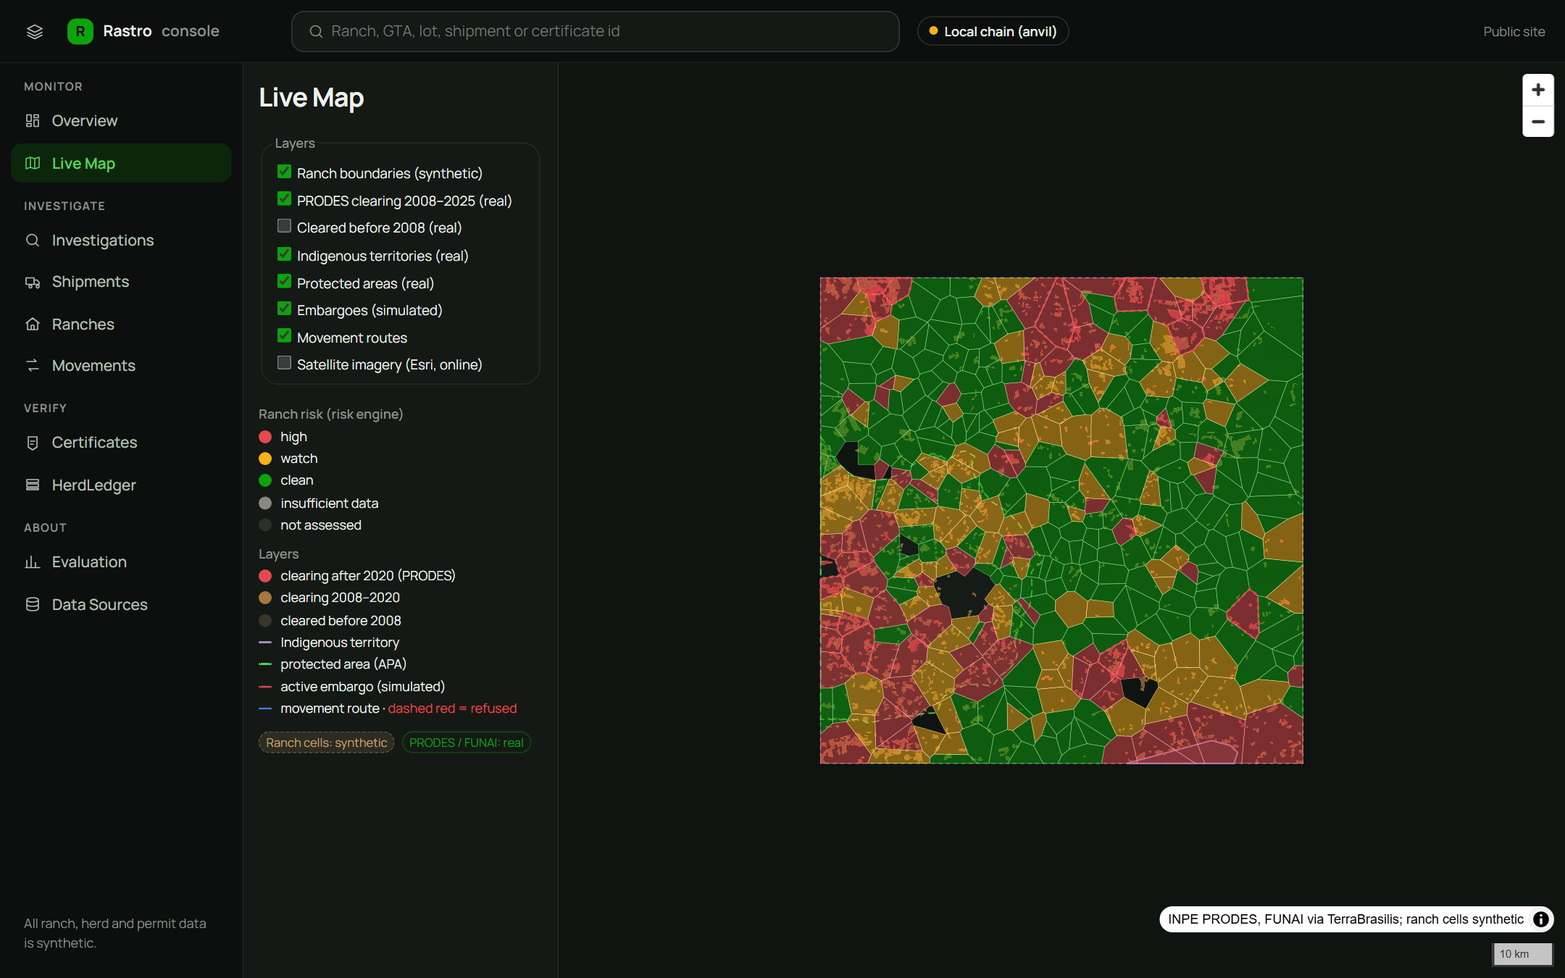
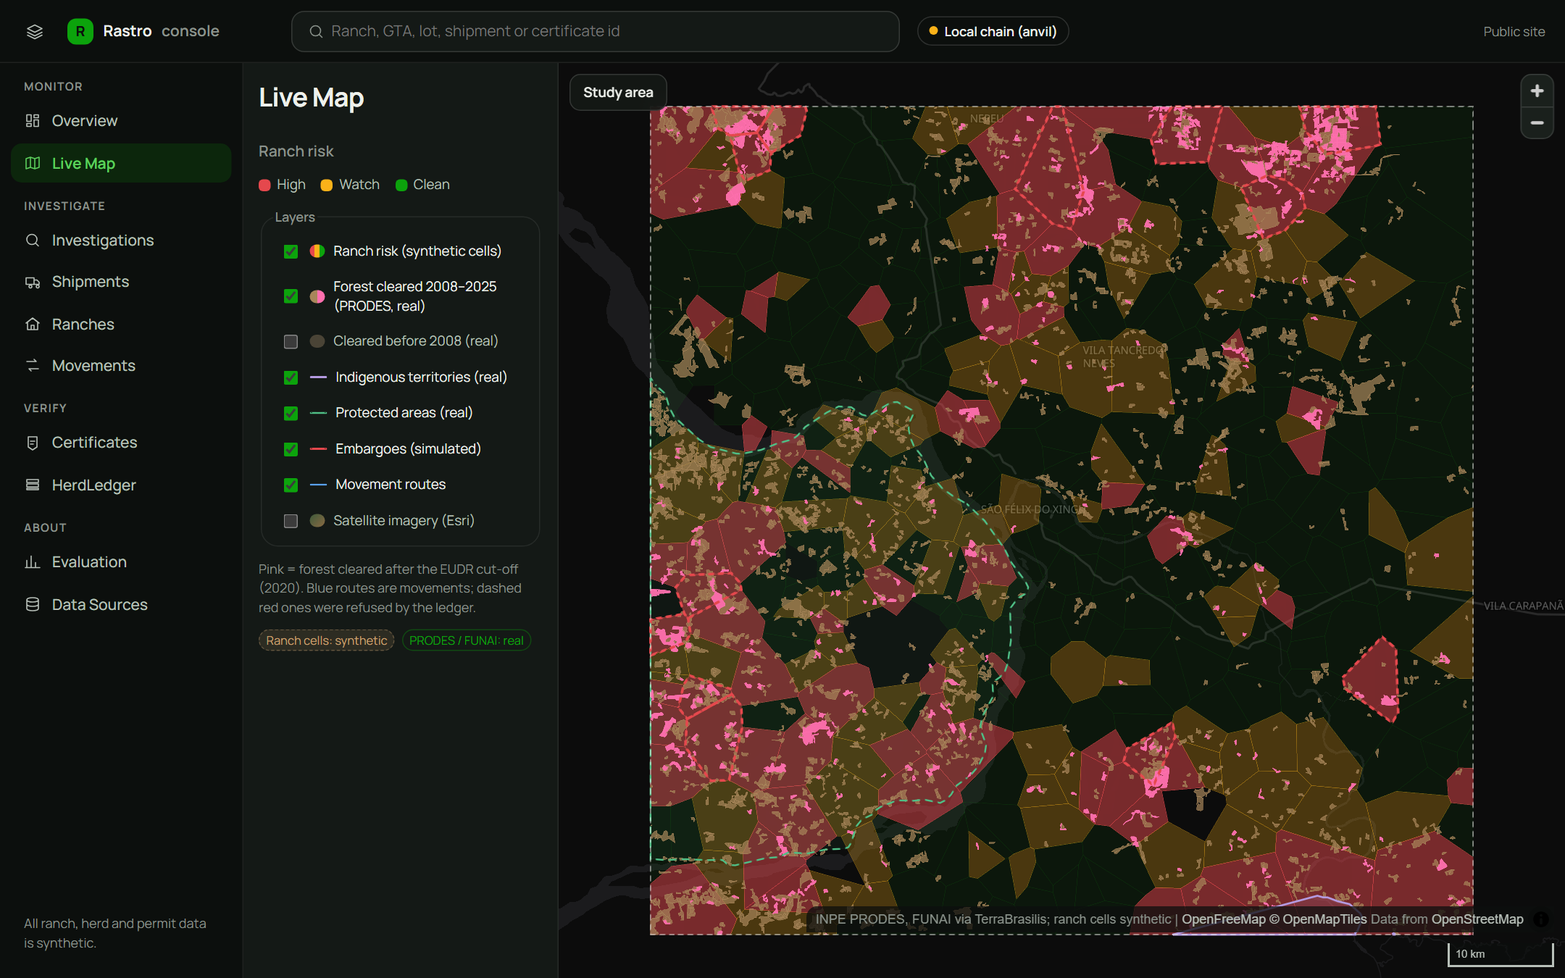
Console map: dark basemap, fit to study area, clearer risk layers

diff --git a/web/src/console/map/MapCanvas.tsx b/web/src/console/map/MapCanvas.tsx
@@ -6,8 +6,8 @@ import { bboxOf, centroid, loadLayer } from './geo';
 
 export type LayerKey = 'ranches' | 'deforestation' | 'cleared2008' | 'indigenous' | 'conservation' | 'embargo' | 'routes';
 export const LAYER_LABELS: Record<LayerKey, string> = {
-  ranches: 'Ranch boundaries (synthetic)',
-  deforestation: 'PRODES clearing 2008–2025 (real)',
+  ranches: 'Ranch risk (synthetic cells)',
+  deforestation: 'Forest cleared 2008–2025 (PRODES, real)',
   cleared2008: 'Cleared before 2008 (real)',
   indigenous: 'Indigenous territories (real)',
   conservation: 'Protected areas (real)',
@@ -15,7 +15,7 @@ export const LAYER_LABELS: Record<LayerKey, string> = {
   routes: 'Movement routes',
 };
 
-// Muted earth tones; red only for blocking risk.
+// Status colours (red only for blocking risk); the same values as the landing page.
 export const RISK_COLOR: Record<string, string> = {
   high: '#e5484d',
   watch: '#fab219',
@@ -23,16 +23,22 @@ export const RISK_COLOR: Record<string, string> = {
   insufficient_data: '#898781',
   unassessed: '#2a312c',
 };
+// Clearing by PRODES year: soil browns up to the EUDR cut-off, magenta after (matches the landing map).
+export const DEFOR_COLOR = { post: '#ff6fae', pre: '#a8865a', before2008: '#4a4436' };
 
-// Plain background style: no third-party basemap needed, so the map never fails on tiles.
-const STYLE: StyleSpecification = {
+// Dark vector basemap (OpenFreeMap). If it cannot load (offline), fall back to a plain background.
+const BASEMAP = 'https://tiles.openfreemap.org/styles/dark';
+const PLAIN: StyleSpecification = {
   version: 8,
   sources: {},
   layers: [{ id: 'bg', type: 'background', paint: { 'background-color': '#101411' } }],
 };
 const SATELLITE_TILES = 'https://server.arcgisonline.com/ArcGIS/rest/services/World_Imagery/MapServer/tile/{z}/{y}/{x}';
+const EMPTY: FeatureCollection = { type: 'FeatureCollection', features: [] };
 
 export interface Route { from: [number, number]; to: [number, number]; head: number; gta: string; refused?: boolean; date?: string }
+
+interface Layers { ranches: FeatureCollection; defor: FeatureCollection; before: FeatureCollection; prot: FeatureCollection; aoi: FeatureCollection }
 
 export function MapCanvas({ riskByRanch, layers, selected, onSelectRanch, routes, focus, compact, satellite }: {
   riskByRanch: Record<string, string>;
@@ -47,92 +53,145 @@ export function MapCanvas({ riskByRanch, layers, selected, onSelectRanch, routes
   const el = useRef<HTMLDivElement>(null);
   const map = useRef<maplibregl.Map | null>(null);
   const ranchFc = useRef<FeatureCollection | null>(null);
-  const [ready, setReady] = useState(false);
+  const aoiBox = useRef<[[number, number], [number, number]] | null>(null);
+  const [gen, setGen] = useState(0); // bumps every time our layers are (re)installed
   const [err, setErr] = useState<string | null>(null);
   const [hover, setHover] = useState<{ x: number; y: number; text: string } | null>(null);
   const cb = useRef(onSelectRanch);
   cb.current = onSelectRanch;
+  const ready = gen > 0;
+
+  const fitStudyArea = (duration = 600) => {
+    const m = map.current;
+    if (m && aoiBox.current) m.fitBounds(aoiBox.current, { padding: compact ? 16 : 40, duration });
+  };
 
   useEffect(() => {
     if (!el.current) return;
-    const m = new maplibregl.Map({ container: el.current, style: STYLE, center: [-51.95, -6.65], zoom: compact ? 8.3 : 8.8, attributionControl: false });
+    const m = new maplibregl.Map({ container: el.current, style: BASEMAP, center: [-51.95, -6.65], zoom: compact ? 8.3 : 8.8, attributionControl: false, dragRotate: false });
     map.current = m;
+    m.touchZoomRotate.disableRotation();
     m.addControl(new maplibregl.NavigationControl({ showCompass: false }), 'top-right');
     if (!compact) m.addControl(new maplibregl.ScaleControl({ unit: 'metric' }), 'bottom-right');
     m.addControl(new maplibregl.AttributionControl({ compact: true, customAttribution: 'INPE PRODES, FUNAI via TerraBrasilis; ranch cells synthetic' }), 'bottom-right');
-    m.on('load', async () => {
-      try {
-        const [ranches, defor, before, prot, aoi] = await Promise.all(
-          ['ranch_evidence', 'deforestation', 'cleared_before_2008', 'protected', 'aoi'].map(loadLayer),
-        );
-        ranchFc.current = ranches;
-        m.addSource('sat', { type: 'raster', tiles: [SATELLITE_TILES], tileSize: 256, attribution: 'Esri World Imagery' });
-        m.addLayer({ id: 'sat', type: 'raster', source: 'sat', layout: { visibility: 'none' } });
-        m.addSource('aoi', { type: 'geojson', data: aoi });
-        m.addLayer({ id: 'aoi', type: 'line', source: 'aoi', paint: { 'line-color': '#8a928b', 'line-dasharray': [2, 2], 'line-width': 1 } });
-        m.addSource('before', { type: 'geojson', data: before });
-        m.addLayer({ id: 'cleared2008', type: 'fill', source: 'before', paint: { 'fill-color': '#3b3527', 'fill-opacity': 0.55 } });
-        m.addSource('defor', { type: 'geojson', data: defor });
-        m.addLayer({
-          id: 'deforestation', type: 'fill', source: 'defor',
-          paint: { 'fill-color': ['case', ['>', ['get', 'year'], 2020], '#e5484d', '#a7773f'], 'fill-opacity': 0.7 },
-        });
-        m.addSource('prot', { type: 'geojson', data: prot });
-        m.addLayer({ id: 'indigenous', type: 'fill', source: 'prot', filter: ['==', ['get', 'kind'], 'indigenous'], paint: { 'fill-color': '#7d6a8c', 'fill-opacity': 0.18 } });
-        m.addLayer({ id: 'indigenous-line', type: 'line', source: 'prot', filter: ['==', ['get', 'kind'], 'indigenous'], paint: { 'line-color': '#a58bc0', 'line-width': 1.4 } });
-        m.addLayer({ id: 'conservation', type: 'fill', source: 'prot', filter: ['==', ['get', 'kind'], 'conservation'], paint: { 'fill-color': '#4f7a5a', 'fill-opacity': 0.08 } });
-        m.addLayer({ id: 'conservation-line', type: 'line', source: 'prot', filter: ['==', ['get', 'kind'], 'conservation'], paint: { 'line-color': '#5ccf5c', 'line-width': 1.2, 'line-dasharray': [3, 2] } });
-        m.addSource('ranches', { type: 'geojson', data: ranches, promoteId: 'ranch_id' });
-        m.addLayer({ id: 'ranches', type: 'fill', source: 'ranches', paint: { 'fill-color': '#2a312c', 'fill-opacity': 0.5 } });
-        m.addLayer({
-          id: 'ranches-line', type: 'line', source: 'ranches',
-          paint: { 'line-color': ['case', ['boolean', ['feature-state', 'selected'], false], '#eef1ec', 'rgba(255,255,255,.28)'], 'line-width': ['case', ['boolean', ['feature-state', 'selected'], false], 2.6, 0.5] },
-        });
-        m.addLayer({ id: 'embargo', type: 'line', source: 'ranches', filter: ['==', ['get', 'embargo'], 'active'], paint: { 'line-color': '#e5484d', 'line-width': 2, 'line-dasharray': [1, 1] } });
-        m.addSource('routes', { type: 'geojson', data: { type: 'FeatureCollection', features: [] } });
-        m.addLayer({
-          id: 'routes', type: 'line', source: 'routes',
-          paint: {
-            'line-color': ['case', ['get', 'refused'], '#e5484d', '#3987e5'],
-            'line-width': ['interpolate', ['linear'], ['get', 'head'], 1, 1, 500, 5],
-            'line-opacity': 0.8,
-            'line-dasharray': ['case', ['get', 'refused'], ['literal', [2, 2]], ['literal', [1, 0]]],
-          },
-        });
-        const pick = (e: maplibregl.MapMouseEvent) => m.queryRenderedFeatures(e.point, { layers: ['ranches'] })[0];
-        m.on('click', (e) => {
-          const f = pick(e);
-          if (f?.properties?.ranch_id) cb.current?.(String(f.properties.ranch_id));
-        });
-        m.on('mousemove', (e) => {
-          const r = m.queryRenderedFeatures(e.point, { layers: ['routes'] })[0];
-          const f = pick(e);
-          m.getCanvas().style.cursor = f && cb.current ? 'pointer' : '';
-          if (r) setHover({ x: e.point.x, y: e.point.y, text: `${r.properties?.gta} · ${r.properties?.head} head${r.properties?.date ? ` · ${r.properties.date}` : ''}${r.properties?.refused ? ' · refused by the ledger' : ''}` });
-          else if (f) setHover({ x: e.point.x, y: e.point.y, text: `${f.properties?.ranch_id} (synthetic cell) · post-cut-off ${f.properties?.post_cutoff_ha ?? '—'} ha` });
-          else setHover(null);
-        });
-        m.on('mouseout', () => setHover(null));
-        setReady(true);
-      } catch (e) {
-        setErr(`Map layers could not be loaded: ${(e as Error).message}`);
-      }
+
+    let data: Layers | null = null;
+    let styled = false;
+    let fell = false;
+    const fallback = () => {
+      if (styled || fell) return;
+      fell = true;
+      m.setStyle(PLAIN);
+    };
+    const timer = window.setTimeout(fallback, 8000);
+    m.on('error', (e) => {
+      const msg = String((e as { error?: { message?: string } }).error?.message ?? '');
+      if (!m.isStyleLoaded() && /style|fetch|network|load/i.test(msg)) fallback();
     });
+
+    const install = () => {
+      if (!data || m.getSource('ranches')) return;
+      const d = data;
+      m.addSource('sat', { type: 'raster', tiles: [SATELLITE_TILES], tileSize: 256, attribution: 'Esri World Imagery' });
+      m.addLayer({ id: 'sat', type: 'raster', source: 'sat', layout: { visibility: 'none' }, paint: { 'raster-saturation': -0.2 } });
+      m.addSource('before', { type: 'geojson', data: d.before });
+      m.addLayer({ id: 'cleared2008', type: 'fill', source: 'before', paint: { 'fill-color': DEFOR_COLOR.before2008, 'fill-opacity': 0.5 } });
+      m.addSource('ranches', { type: 'geojson', data: d.ranches, promoteId: 'ranch_id' });
+      m.addLayer({ id: 'ranches', type: 'fill', source: 'ranches', paint: { 'fill-color': RISK_COLOR.unassessed, 'fill-opacity': 0.3 } });
+      m.addSource('prot', { type: 'geojson', data: d.prot });
+      m.addLayer({ id: 'indigenous', type: 'fill', source: 'prot', filter: ['==', ['get', 'kind'], 'indigenous'], paint: { 'fill-color': '#b49ae0', 'fill-opacity': 0.1 } });
+      m.addLayer({ id: 'conservation', type: 'fill', source: 'prot', filter: ['==', ['get', 'kind'], 'conservation'], paint: { 'fill-color': '#4fbf86', 'fill-opacity': 0.06 } });
+      m.addSource('defor', { type: 'geojson', data: d.defor });
+      m.addLayer({
+        id: 'deforestation', type: 'fill', source: 'defor',
+        paint: { 'fill-color': ['case', ['>', ['get', 'year'], 2020], DEFOR_COLOR.post, DEFOR_COLOR.pre], 'fill-opacity': ['case', ['>', ['get', 'year'], 2020], 0.95, 0.7] },
+      });
+      m.addLayer({
+        id: 'ranches-line', type: 'line', source: 'ranches',
+        paint: {
+          'line-color': ['case', ['boolean', ['feature-state', 'selected'], false], '#ffffff', 'rgba(238,241,236,0.22)'],
+          'line-width': ['case', ['boolean', ['feature-state', 'selected'], false], 2.8, ['interpolate', ['linear'], ['zoom'], 8, 0.3, 11, 0.9]],
+        },
+      });
+      m.addLayer({ id: 'indigenous-line', type: 'line', source: 'prot', filter: ['==', ['get', 'kind'], 'indigenous'], paint: { 'line-color': '#b49ae0', 'line-width': 1.8 } });
+      m.addLayer({ id: 'conservation-line', type: 'line', source: 'prot', filter: ['==', ['get', 'kind'], 'conservation'], paint: { 'line-color': '#4fbf86', 'line-width': 1.6, 'line-dasharray': [3, 2] } });
+      m.addLayer({ id: 'embargo', type: 'line', source: 'ranches', filter: ['==', ['get', 'embargo'], 'active'], paint: { 'line-color': '#e5484d', 'line-width': 2.4, 'line-dasharray': [1.5, 1] } });
+      m.addSource('aoi', { type: 'geojson', data: d.aoi });
+      m.addLayer({ id: 'aoi', type: 'line', source: 'aoi', paint: { 'line-color': '#eef1ec', 'line-opacity': 0.55, 'line-dasharray': [3, 2], 'line-width': 1.2 } });
+      m.addSource('routes', { type: 'geojson', data: EMPTY });
+      m.addLayer({
+        id: 'routes', type: 'line', source: 'routes', layout: { 'line-cap': 'round' },
+        paint: {
+          'line-color': ['case', ['get', 'refused'], '#e5484d', '#5aa2f0'],
+          'line-width': ['interpolate', ['linear'], ['get', 'head'], 1, 1.2, 500, 5],
+          'line-opacity': 0.85,
+          'line-dasharray': ['case', ['get', 'refused'], ['literal', [2, 2]], ['literal', [1, 0]]],
+        },
+      });
+      setGen((g) => g + 1);
+    };
+
+    m.on('style.load', () => {
+      if (!fell) styled = true;
+      window.clearTimeout(timer);
+      install();
+    });
+
+    void Promise.all(['ranch_evidence', 'deforestation', 'cleared_before_2008', 'protected', 'aoi'].map(loadLayer))
+      .then(([ranches, defor, before, prot, aoi]) => {
+        data = { ranches, defor, before, prot, aoi };
+        ranchFc.current = ranches;
+        const box = aoi.features[0] ? bboxOf(aoi.features[0].geometry) : null;
+        aoiBox.current = box;
+        if (box) m.fitBounds(box, { padding: compact ? 16 : 40, duration: 0 });
+        if (m.isStyleLoaded()) install();
+      })
+      .catch((e) => setErr(`Map layers could not be loaded: ${(e as Error).message}`));
+
+    const pick = (e: maplibregl.MapMouseEvent) => (m.getLayer('ranches') ? m.queryRenderedFeatures(e.point, { layers: ['ranches'] })[0] : undefined);
+    m.on('click', (e) => {
+      const f = pick(e);
+      if (f?.properties?.ranch_id) cb.current?.(String(f.properties.ranch_id));
+    });
+    m.on('mousemove', (e) => {
+      const r = m.getLayer('routes') ? m.queryRenderedFeatures(e.point, { layers: ['routes'] })[0] : undefined;
+      const f = pick(e);
+      m.getCanvas().style.cursor = f && cb.current ? 'pointer' : '';
+      if (r) setHover({ x: e.point.x, y: e.point.y, text: `${r.properties?.gta} · ${r.properties?.head} head${r.properties?.date ? ` · ${r.properties.date}` : ''}${r.properties?.refused ? ' · refused by the ledger' : ''}` });
+      else if (f) setHover({ x: e.point.x, y: e.point.y, text: `${f.properties?.ranch_id} · ${String(f.properties?.risk_class ?? 'unassessed').replace('_', ' ')} · cleared after 2020: ${f.properties?.post_cutoff_ha ?? '—'} ha` });
+      else setHover(null);
+    });
+    m.on('mouseout', () => setHover(null));
+    const ro = new ResizeObserver(() => m.resize());
+    ro.observe(el.current);
     return () => {
+      window.clearTimeout(timer);
+      ro.disconnect();
       m.remove();
       map.current = null;
     };
+    // eslint-disable-next-line react-hooks/exhaustive-deps
   }, [compact]);
 
-  // risk colours
+  // Risk colours: the API's ratings when available, otherwise the class published with the map layer.
+  // Clean ranches stay faint so the risky ones read at a glance.
   useEffect(() => {
     const m = map.current;
     if (!ready || !m) return;
-    const expr: unknown[] = ['match', ['get', 'ranch_id']];
-    for (const [id, cls] of Object.entries(riskByRanch)) expr.push(id, RISK_COLOR[cls] || RISK_COLOR.unassessed);
-    expr.push(RISK_COLOR.unassessed);
-    m.setPaintProperty('ranches', 'fill-color', Object.keys(riskByRanch).length ? (expr as maplibregl.ExpressionSpecification) : RISK_COLOR.unassessed);
-  }, [riskByRanch, ready]);
+    const OPACITY: Record<string, number> = { high: 0.5, watch: 0.26, clean: 0.07, insufficient_data: 0.2, unassessed: 0.15 };
+    const byClass = (table: Record<string, string | number>, other: string | number) => [
+      'match', ['get', 'risk_class'], 'high', table.high, 'watch', table.watch, 'clean', table.clean, 'insufficient_data', table.insufficient_data, other,
+    ];
+    const expr = (table: Record<string, string | number>, other: string | number) => {
+      if (!Object.keys(riskByRanch).length) return byClass(table, other);
+      const e: unknown[] = ['match', ['get', 'ranch_id']];
+      for (const [id, cls] of Object.entries(riskByRanch)) e.push(id, table[cls] ?? other);
+      e.push(byClass(table, other));
+      return e;
+    };
+    m.setPaintProperty('ranches', 'fill-color', expr(RISK_COLOR, RISK_COLOR.unassessed) as maplibregl.ExpressionSpecification);
+    m.setPaintProperty('ranches', 'fill-opacity', ['case', ['boolean', ['feature-state', 'selected'], false], 0.65, expr(OPACITY, OPACITY.unassessed)] as unknown as maplibregl.ExpressionSpecification);
+  }, [riskByRanch, gen, ready]);
 
   // layer visibility
   useEffect(() => {
@@ -150,7 +209,7 @@ export function MapCanvas({ riskByRanch, layers, selected, onSelectRanch, routes
     vis('embargo', layers.embargo);
     vis('routes', layers.routes);
     vis('sat', !!satellite);
-  }, [layers, ready, satellite]);
+  }, [layers, gen, ready, satellite]);
 
   // selection + focus
   const prevSel = useRef<string | null>(null);
@@ -166,7 +225,7 @@ export function MapCanvas({ riskByRanch, layers, selected, onSelectRanch, routes
       const b = bboxOf(f.geometry);
       if (b) m.fitBounds(b, { padding: 120, maxZoom: 11.5, duration: 600 });
     }
-  }, [selected, focus, ready]);
+  }, [selected, focus, gen, ready]);
 
   // routes
   useEffect(() => {
@@ -183,11 +242,16 @@ export function MapCanvas({ riskByRanch, layers, selected, onSelectRanch, routes
       ),
     };
     (m.getSource('routes') as GeoJSONSource | undefined)?.setData(fc);
-  }, [routes, ready]);
+  }, [routes, gen, ready]);
 
   return (
     <div className={`map ${compact ? 'map-compact' : ''}`}>
       <div ref={el} className="map-canvas" role="region" aria-label="Map of ranches and environmental layers" />
+      {!compact && ready && (
+        <button type="button" className="map-fit" onClick={() => fitStudyArea()}>
+          Study area
+        </button>
+      )}
       {err && <div className="map-msg">{err}</div>}
       {hover && (
         <div className="map-hover" style={{ left: hover.x + 12, top: hover.y + 12 }}>

diff --git a/web/src/console/pages/LiveMap.tsx b/web/src/console/pages/LiveMap.tsx
@@ -6,11 +6,20 @@ import { useApi } from '../api/useApi';
 import { ProvenanceLabel } from '../components/Badges';
 import { ErrorState } from '../components/States';
 import { Drawer } from '../components/Overlays';
-import { LAYER_LABELS, MapCanvas, RISK_COLOR, ranchCentroids, type LayerKey, type Route as MapRoute } from '../map/MapCanvas';
+import { DEFOR_COLOR, LAYER_LABELS, MapCanvas, RISK_COLOR, ranchCentroids, type LayerKey, type Route as MapRoute } from '../map/MapCanvas';
 import { type Route, setQuery } from '../lib/router';
 import { RanchDetailBody } from './Ranches';
 
 const DEFAULT_LAYERS: Record<LayerKey, boolean> = { ranches: true, deforestation: true, cleared2008: false, indigenous: true, conservation: true, embargo: true, routes: true };
+const SWATCH: Record<LayerKey, { color: string; kind?: 'line' | 'line dashed' }> = {
+  ranches: { color: 'linear-gradient(90deg,#e5484d 0 33%,#fab219 33% 66%,#0ca30c 66%)' },
+  deforestation: { color: `linear-gradient(90deg,${DEFOR_COLOR.pre} 0 50%,${DEFOR_COLOR.post} 50%)` },
+  cleared2008: { color: DEFOR_COLOR.before2008 },
+  indigenous: { color: '#b49ae0', kind: 'line' },
+  conservation: { color: '#4fbf86', kind: 'line dashed' },
+  embargo: { color: '#e5484d', kind: 'line dashed' },
+  routes: { color: '#5aa2f0', kind: 'line' },
+};
 
 export function LiveMap({ route }: { route: Route }) {
   const selected = route.query.get('ranch');
@@ -55,33 +64,33 @@ export function LiveMap({ route }: { route: Route }) {
       <div className="map-layout">
         <aside className="map-side">
           <h1>Live Map</h1>
+          <div className="legend-title">Ranch risk</div>
+          <div className="risk-key">
+            {(['high', 'watch', 'clean'] as const).map((k) => (
+              <span key={k}>
+                <i style={{ background: RISK_COLOR[k] }} />
+                {k}
+              </span>
+            ))}
+          </div>
           <fieldset className="layer-control">
             <legend>Layers</legend>
             {(Object.keys(LAYER_LABELS) as LayerKey[]).map((k) => (
-              <label key={k}>
-                <input type="checkbox" checked={layers[k]} onChange={(e) => setLayers({ ...layers, [k]: e.target.checked })} /> {LAYER_LABELS[k]}
+              <label key={k} className={layers[k] ? 'on' : undefined}>
+                <input type="checkbox" checked={layers[k]} onChange={(e) => setLayers({ ...layers, [k]: e.target.checked })} />
+                <span className={`swatch ${SWATCH[k].kind ?? ''}`} style={SWATCH[k].kind ? { borderColor: SWATCH[k].color } : { background: SWATCH[k].color }} />
+                {LAYER_LABELS[k]}
               </label>
             ))}
-            <label>
-              <input type="checkbox" checked={satellite} onChange={(e) => setSatellite(e.target.checked)} /> Satellite imagery (Esri, online)
+            <label className={satellite ? 'on' : undefined}>
+              <input type="checkbox" checked={satellite} onChange={(e) => setSatellite(e.target.checked)} />
+              <span className="swatch" style={{ background: 'linear-gradient(135deg,#3d5a3a,#8a6a43)' }} />
+              Satellite imagery (Esri)
             </label>
           </fieldset>
-          <div className="legend">
-            <div className="legend-title">Ranch risk (risk engine)</div>
-            {Object.entries(RISK_COLOR).map(([k, c]) => (
-              <div key={k}>
-                <span className="swatch" style={{ background: c }} /> {k === 'unassessed' ? 'not assessed' : k.replace('_', ' ')}
-              </div>
-            ))}
-            <div className="legend-title">Layers</div>
-            <div><span className="swatch" style={{ background: '#e5484d' }} /> clearing after 2020 (PRODES)</div>
-            <div><span className="swatch" style={{ background: '#a7773f' }} /> clearing 2008–2020</div>
-            <div><span className="swatch" style={{ background: '#3b3527' }} /> cleared before 2008</div>
-            <div><span className="swatch line" style={{ borderColor: '#a58bc0' }} /> Indigenous territory</div>
-            <div><span className="swatch line dashed" style={{ borderColor: '#5ccf5c' }} /> protected area (APA)</div>
-            <div><span className="swatch line dashed" style={{ borderColor: '#e5484d' }} /> active embargo (simulated)</div>
-            <div><span className="swatch line" style={{ borderColor: '#3987e5' }} /> movement route · <span style={{ color: '#e5484d' }}>dashed red = refused</span></div>
-          </div>
+          <p className="small muted" style={{ margin: 0 }}>
+            Pink = forest cleared after the EUDR cut-off (2020). Blue routes are movements; dashed red ones were refused by the ledger.
+          </p>
           <div className="small">
             <ProvenanceLabel status="synthetic">Ranch cells</ProvenanceLabel> <ProvenanceLabel status="real">PRODES / FUNAI</ProvenanceLabel>
           </div>

diff --git a/web/src/console/styles/console.css b/web/src/console/styles/console.css
@@ -255,6 +255,22 @@ table.confusion td { text-align: right; }
 .swatch { display: inline-block; width: 12px; height: 12px; border-radius: 999px; vertical-align: -2px; margin-right: 6px; }
 .swatch.line { height: 0; border-top: 2px solid; border-radius: 999px; vertical-align: 3px; }
 .swatch.line.dashed { border-top-style: dashed; }
+.layer-control label { display: flex; align-items: center; gap: 8px; padding: 5px 6px; border-radius: 8px; color: var(--ink-2); cursor: pointer; }
+.layer-control label.on { color: var(--ink); }
+.layer-control label:hover { background: var(--paper-2); }
+.layer-control .swatch { margin-right: 0; width: 14px; flex: none; }
+.layer-control .swatch.line { width: 16px; }
+.risk-key { display: flex; gap: 14px; font-size: 12.5px; color: var(--ink-2); text-transform: capitalize; }
+.risk-key span { display: inline-flex; align-items: center; gap: 6px; }
+.risk-key i { width: 11px; height: 11px; border-radius: 4px; display: inline-block; }
+.map-fit { position: absolute; top: 10px; left: 10px; z-index: 3; border: 1px solid var(--rule-2); background: rgba(20, 25, 22, 0.88); color: var(--ink); border-radius: 10px; padding: 7px 12px; font: inherit; font-size: 12.5px; font-weight: 600; cursor: pointer; backdrop-filter: blur(8px); }
+.map-fit:hover { border-color: var(--ink-2); }
+.map .maplibregl-ctrl-group { background: #1a201c; border: 1px solid var(--rule-2); border-radius: 10px; box-shadow: none; overflow: hidden; }
+.map .maplibregl-ctrl-group button + button { border-top: 1px solid var(--rule-2); }
+.map .maplibregl-ctrl-group button .maplibregl-ctrl-icon { filter: invert(1); }
+.map .maplibregl-ctrl-attrib { background: rgba(12, 15, 13, 0.75); color: var(--muted); border-radius: 10px 0 0 0; }
+.map .maplibregl-ctrl-attrib a { color: var(--ink-2); }
+.map .maplibregl-ctrl-scale { background: rgba(12, 15, 13, 0.6); color: var(--ink-2); border-color: var(--ink-2); }
 
 /* ---- responsive ---- */
 @media (max-width: 1100px) {
